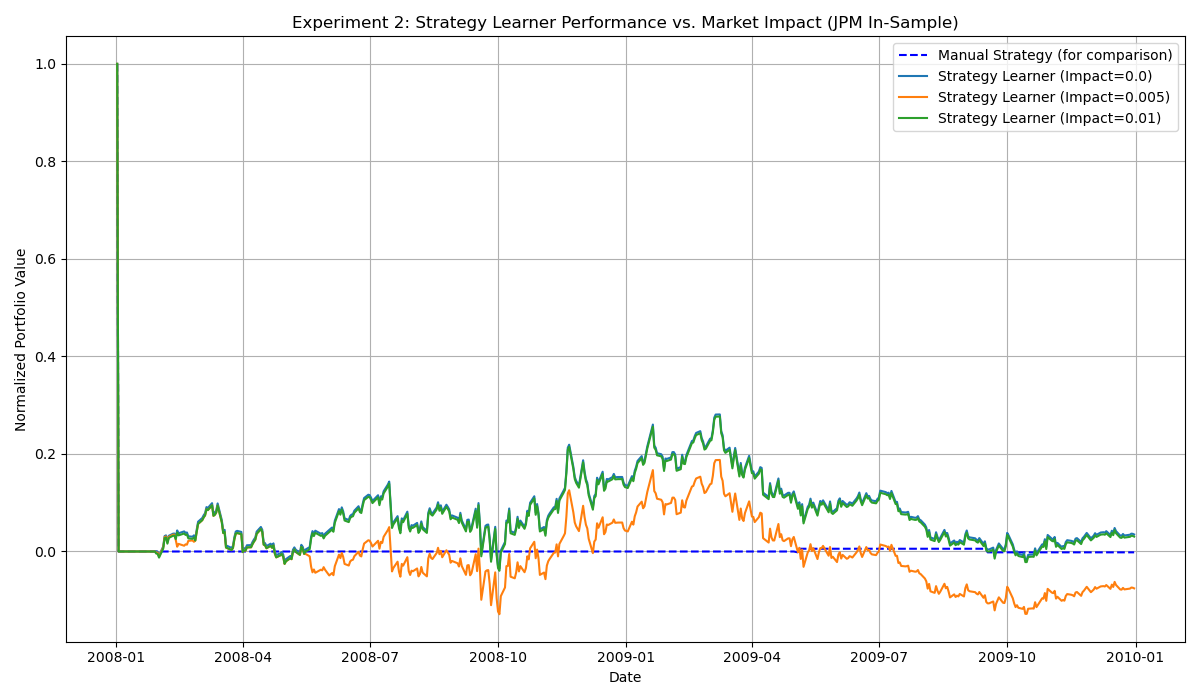
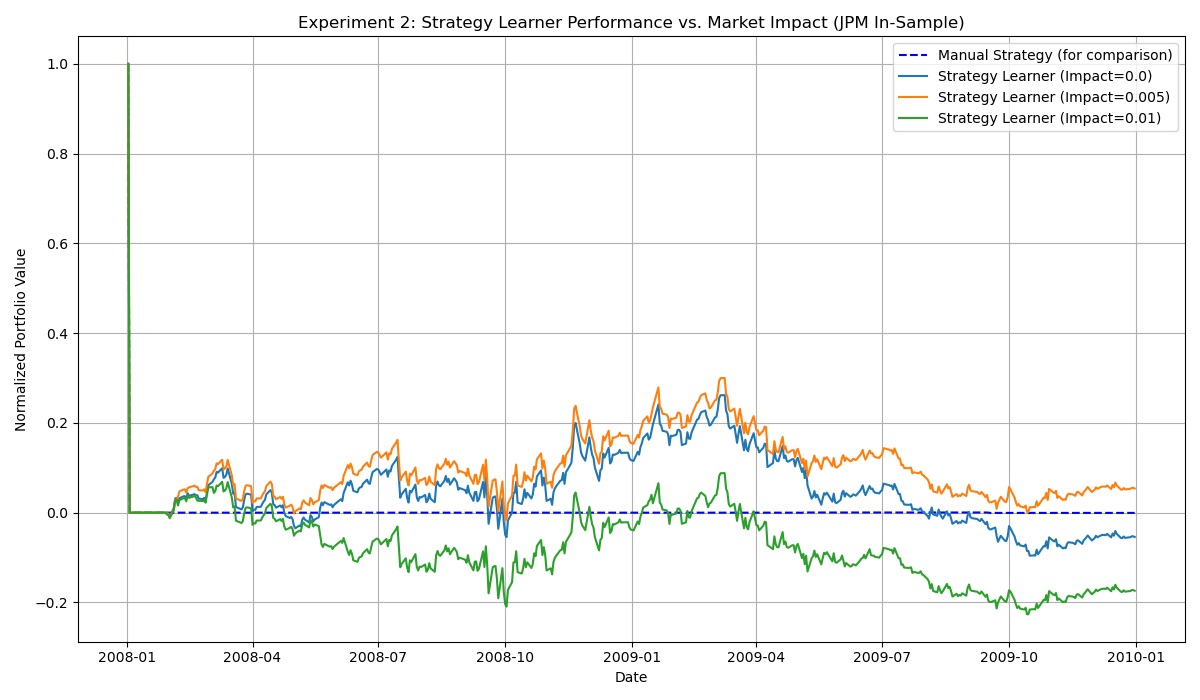
testing different parameter

diff --git a/strategy_evaluation/StrategyLearner.py b/strategy_evaluation/StrategyLearner.py
@@ -40,7 +40,7 @@ class StrategyLearner:
         self.impact = impact
         self.commission = commission
         self.learner = ql.QLearner(
-            num_states=1728,
+            num_states=1000,
             num_actions=3,
             alpha=0.2,
             gamma=0.9,
@@ -87,7 +87,7 @@ class StrategyLearner:
         states = self._compute_states(df_indicators)
 
         # origin lopp
-        for epoch in range(30):
+        for epoch in range(20):
             for i in range(len(states) - 5):
                 s = states[i]
                 r = returns.iloc[i + 5] * 1000  # reward scaling
@@ -144,7 +144,7 @@ class StrategyLearner:
 
     def _compute_states(self, df):
         # Discretize each indicator into 10 bins and create composite state
-        bins = 12
+        bins = 10
         bbp_bins = pd.qcut(df['BBP'], bins, labels=False, duplicates='drop')
         macd_bins = pd.qcut(df['MACD'], bins, labels=False, duplicates='drop')
         rsi_bins = pd.qcut(df['RSI'], bins, labels=False, duplicates='drop')
